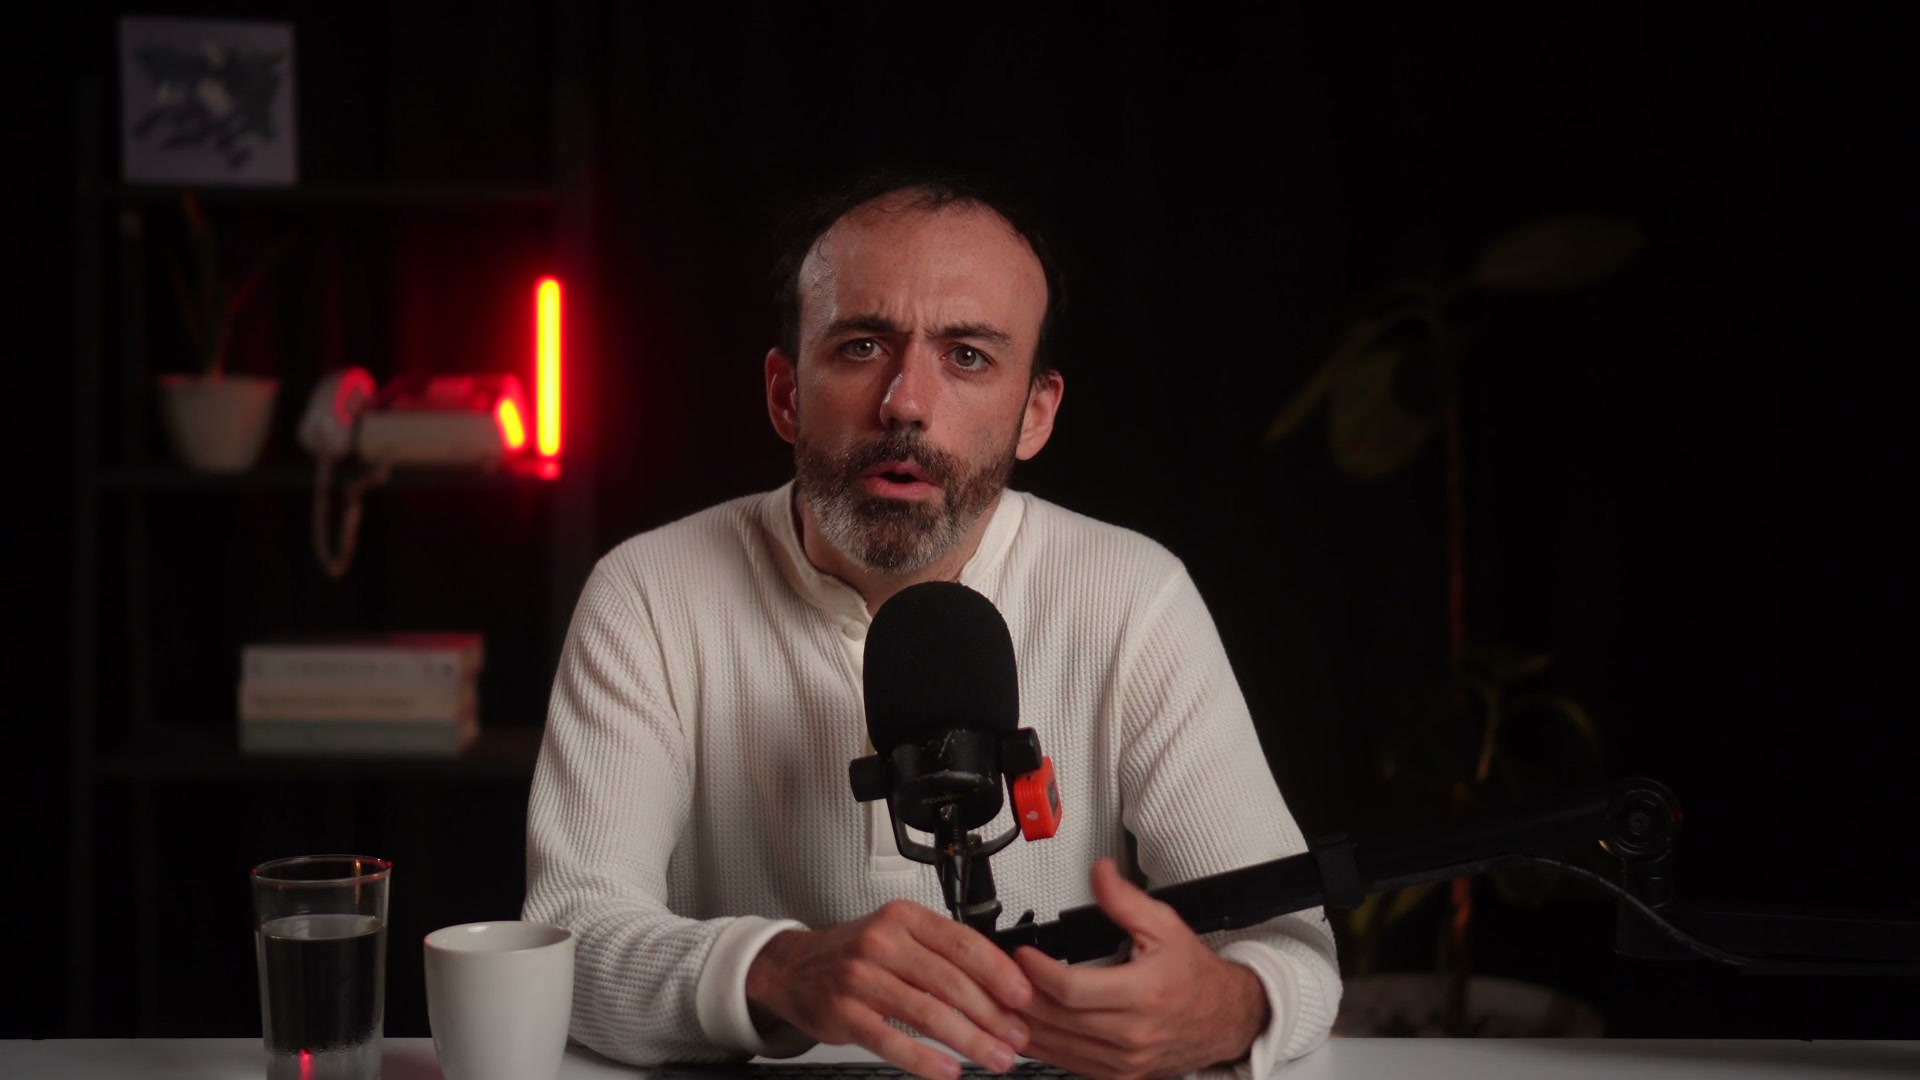
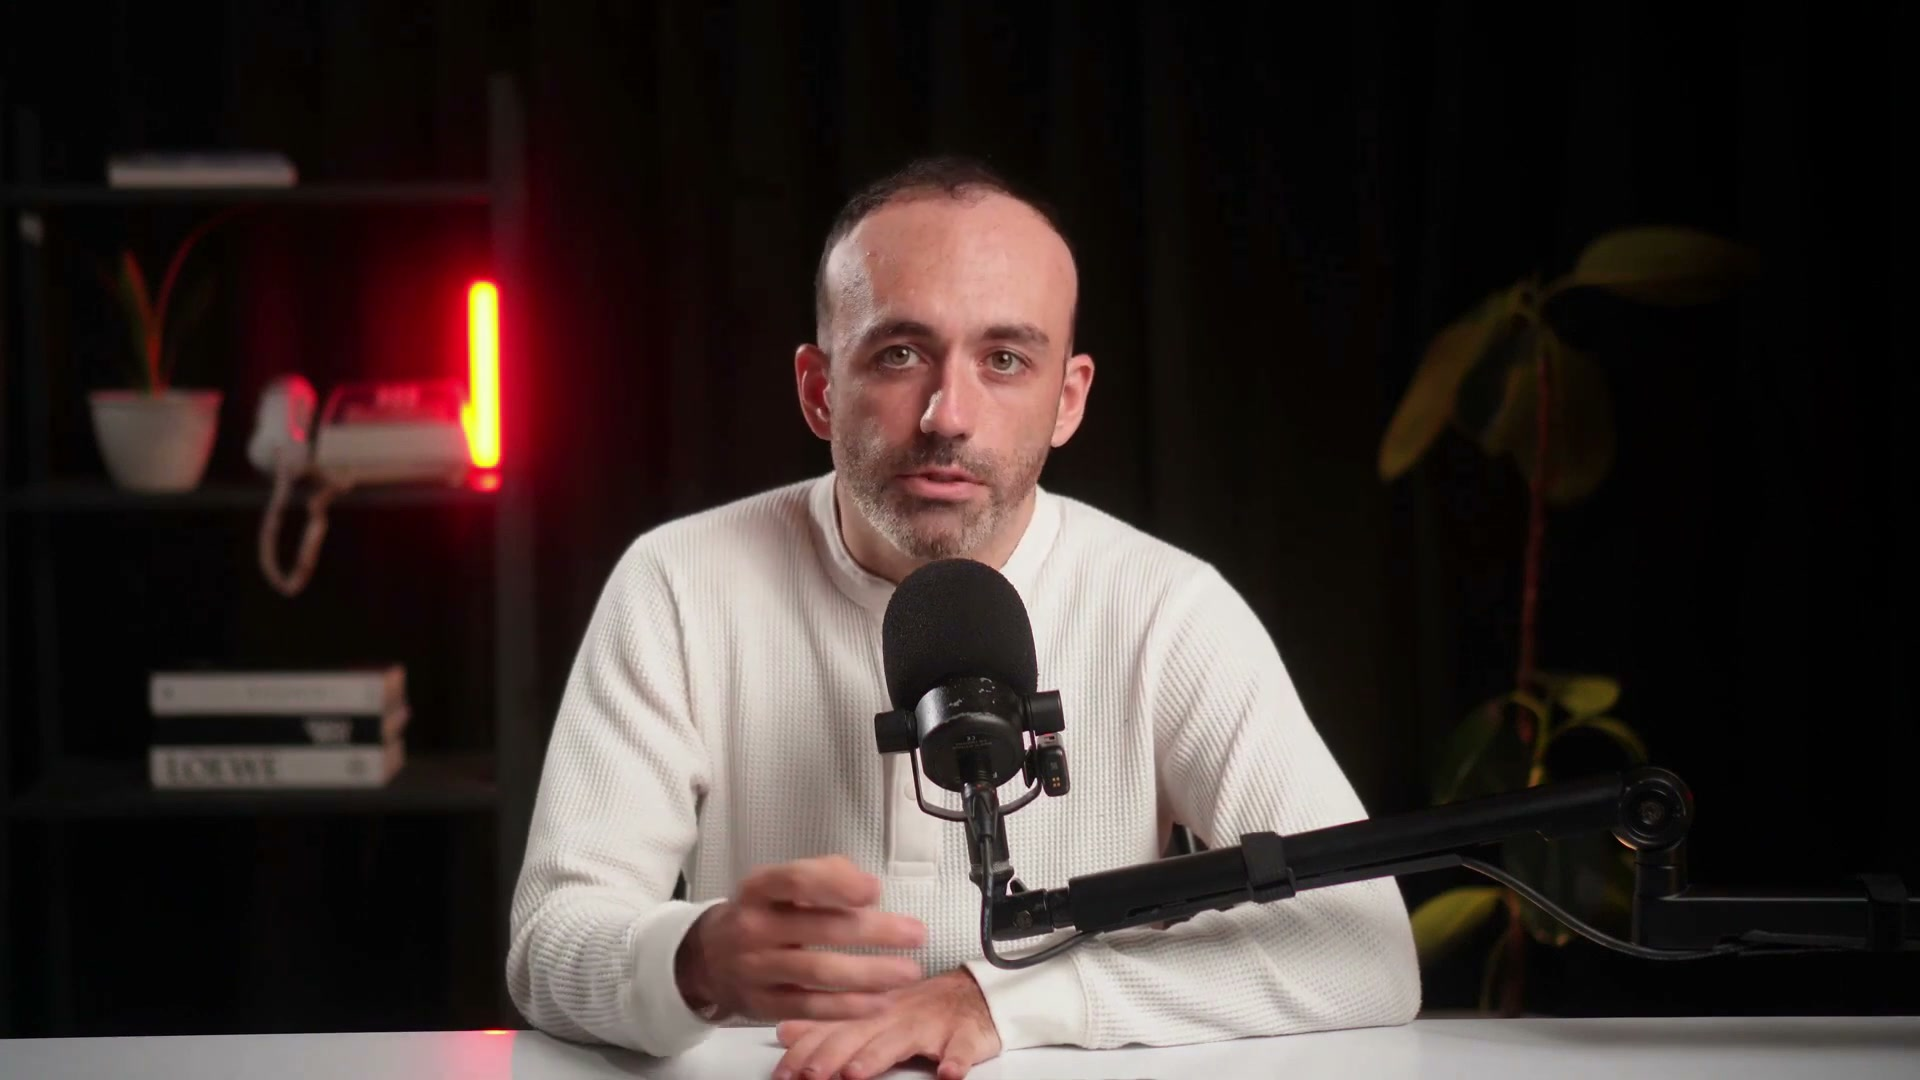
Use friendly in-video frame as hero poster
Replaces the previous video-poster.jpg with a calm, composed frame
pulled from -IemxqwVGcg (~2:00) so the landing thumbnail feels warm,
not aggressive.

diff --git a/index.html b/index.html
@@ -719,7 +719,7 @@
         <a href="#contact" class="btn btn-primary">Let's talk</a>
         <div class="hero-video" id="heroVideo">
           <button class="poster" id="heroPoster" aria-label="Play video"
-                  style="background-image:url('assets/images/hero-presenting.jpg');">
+                  style="background-image:url('assets/images/video-poster.jpg');background-position:center center;">
             <span class="play"><svg viewBox="0 0 68 48" width="80" height="56"><path d="M66.52 7.74c-.78-2.93-2.49-5.41-5.42-6.19C55.79.13 34 0 34 0S12.21.13 6.9 1.55c-2.93.78-4.63 3.26-5.42 6.19C.06 13.05 0 24 0 24s.06 10.95 1.48 16.26c.78 2.93 2.49 5.41 5.42 6.19C12.21 47.87 34 48 34 48s21.79-.13 27.1-1.55c2.93-.78 4.64-3.26 5.42-6.19C67.94 34.95 68 24 68 24s-.06-10.95-1.48-16.26z" fill="#E41E2B"/><path d="M45 24L27 14v20" fill="#fff"/></svg></span>
           </button>
         </div>
